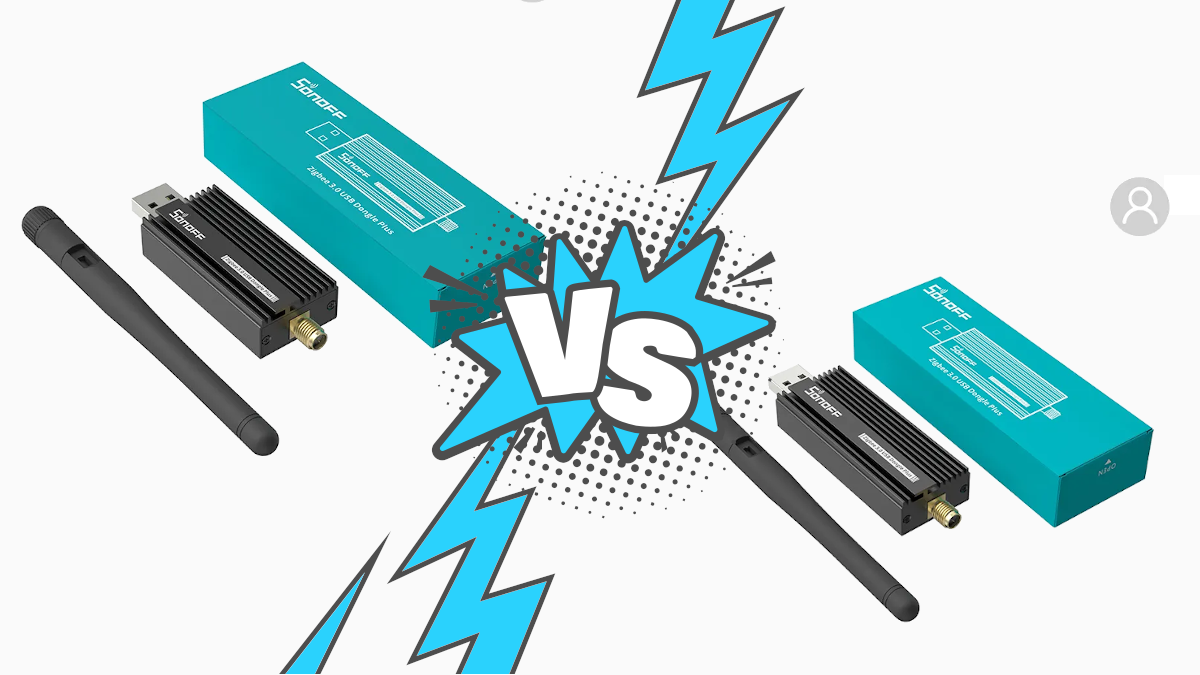
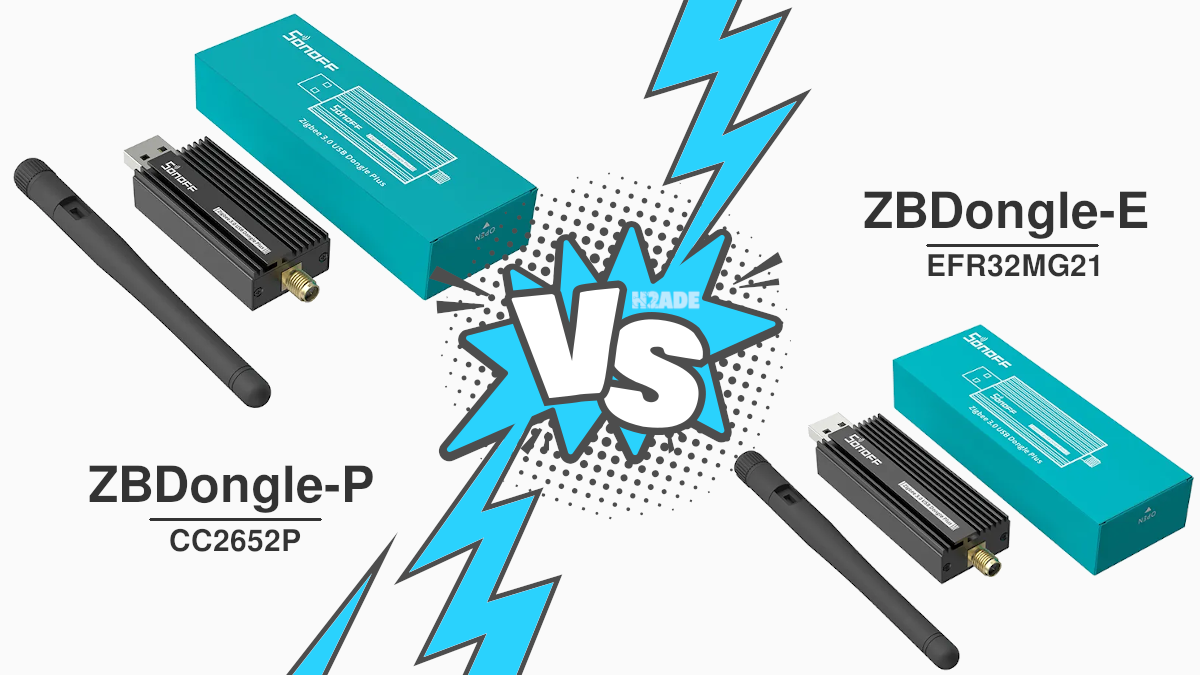
update posts sonoff

Changed region(s): [[0.0, 0.0, 1.0, 1.0]]

diff --git a/_includes/pdflink.html b/_includes/pdflink.html
@@ -1,0 +1,7 @@
+{% for pdf in site.static_files %}
+  {% if pdf.path contains 'assets/images/posts/{{ page.guid }}' %}
+  <div class="pdfinteger">
+  Téléchargez le fichier PDF ici : <a href="{{ pdf.path }}">{{ pdf.title }}</a><i class="far fa-file-pdf"></i>
+</div>  
+  {% endif %}
+{% endfor %}

diff --git a/_includes/youtubePlayer.html b/_includes/youtubePlayer.html
@@ -1,4 +1,4 @@
-<!-- https://github.com/nathancy/jekyll-embed-video/blob/master/_includes/youtubePlayer.html -->
+<!-- https://github.com/nathancy/jekyll-embed-video/tree/master/_includes -->
 
 <div class="embed-container lazyimg">
     <iframe

diff --git a/_sass/plugins.scss b/_sass/plugins.scss
@@ -312,8 +312,8 @@ margin-top:10px;}
 
       h2 {
         font-size: 22px;
-
-      }
+        text-transform: uppercase;
+}
 
       h2 h3 {
         margin-bottom: 0.3rem;

diff --git a/_posts/fr/2022-11-20-zb-dongle-p-vs-zb-dongle-e-zigbee-sonoff.md b/_posts/fr/2022-11-20-zb-dongle-p-vs-zb-dongle-e-zigbee-sonoff.md
@@ -24,21 +24,97 @@ rating:
 sourcelink:
   - https://www.reddit.com/r/homeassistant/comments/x9kkh1/zigbee_matter_hub_cc2652p_vs_efr32mg21_vs_cc2531/
   - https://sonoff.tech/
+  - https://www.silabs.com/wireless/zigbee/efr32mg21-series-2-socs
+  - https://www.ti.com/product/CC2652P#features
 ---
 
-## Intro
+## INTRODUCTION
 
  aujourd'hui nous allons  comparer deux clés  ZigBee de la marque sonoff la ZBDongle-P et la ZBDongle-E. La ZBDongle-P dispose d'un processeur CC2652P, qui a été longuement éprouvé et fonctionne sur l'ensemble des plateformes domotique. quand a la clé ZBDongle-E dispose d'un processeur EFR32MG21, celle-ci est beaucoup plus récente mais semble être l'avenir des processeurs des clés Zigbee 3.0, vu sa récente introduction il faudra faire attention à ce qu'elle soit bien compatible avec les plateformes domotiques actuelles. Par exemple avec le service zigbee2mqtt celle-ci est à utiliser avec précaution car encore expérimental, voir le lien dans le tableau ci-dessous. **La principale différence réside dans la puissance du signal la clé ZBDongle-P a un signal initiales de 5 dbm et peut aller jusqu'à 20 Dbm max, alors que la ZBDongle-E a un signal avoisinant les 20 décibels maximum.** La Seconde différence se trouve au niveau des dimensions la ZBDongle-P mesure 66mm tandis que la ZBDongle-E mesure 11 mm de moins. Les mises à jours du firmware fonctionnent de façon identique sur les deux clés.
+
+## Présentation CC2652P clé ZBDongle-P
+
+{% include product-embed.html image="https://ae01.alicdn.com/kf/S90bbc8d67fea433b9049a0df5f455f48c/1-10PCS-SONOFF-ZB-Dongle-Plus-USB-Zigbee3-0-Passerelle-Analyseur-Zigbee-2MQTT-Interface-Capture-Avec.jpg_Q90.jpg_.webp" title="Sonoff zbdongle-p cc2652p" brand="Sonoff" description="Le dongle USB SONOFF Zigbee 3.0 est une clé USB Zigbee universelle." affiliate="_DEQcEe7" %}
+
+L'appareil SimpleLink™CC2652P est un microcontrôleur sans fil (MCU) multiprotocole de 2,4 GHz prenant en charge **Thread , Zigbee , Bluetooth 5.2 Low Energy** , IEEE 802.15.4, les objets intelligents compatibles IPv6 (6LoWPAN), les systèmes propriétaires, y compris le TI 15.4-Stack (2.4 GHz) et multiprotocole simultané via un pilote Dynamic Multiprotocol Manager (DMM). L'appareil est optimisé pour la communication sans fil à faible puissance et la détection avancée dans les systèmes de sécurité des bâtiments, CVC, médical, réseau câblé, électronique portable, home cinéma et divertissement, et marchés des périphériques connectés. 
+
+### Spécification CC2652P
+
+#### Microcontrôleur
+- Puissant processeur Arm Cortex-M4F de 48 MHz
+- Note EEMBC CoreMark : 148
+- 352 Ko de flash programmable intégré au système
+- 256 Ko de ROM pour les protocoles et les fonctions de bibliothèque
+- 8 Ko de mémoire cache SRAM (également disponible en tant que RAM à usage général)
+- 80 Ko de SRAM à très faible fuite. La SRAM est protégée par parité pour assurer une grande fiabilité de fonctionnement.
+- Débogage cJTAG et JTAG à 2 broches
+- Prend en charge la mise à jour en direct (OTA).
+- 
+#### Contrôleur de capteur ultra-basse consommation avec 4 Ko de SRAM
+- Échantillonner, stocker et traiter les données des capteurs
+- Fonctionnement indépendant du CPU du système
+- Réveil rapide pour un fonctionnement à faible consommation
+- TI-RTOS, pilotes, bootloader, contrôleur basse consommation Bluetooth 5.2 et IEEE 802.15.4 MAC en ROM pour une taille d'application optimisée
+- 
+#### Taille Soc
+7 mm × 7 mm RGZ VQFN48 (26 GPIO)
+
+## Présentation EFR32MG21 Clé ZBDongle-E
+
+{% include product-embed.html guid="2128" %}
+
+Les appareils EFR32MG21 apportent des solutions hautes performances, basse consommation et sécurisées à l'IoT. Conçus pour augmenter la capacité de traitement, améliorer les performances RF et réduire le courant actif, les dispositifs EFR32MG21 sont des SoC sans fil 2,4 GHz optimisés pour les applications de maillage **Zigbee, Thread et Bluetooth** alimentées par la ligne, y compris l'éclairage connecté, les passerelles, les assistants vocaux et les compteurs intelligents.
+
+La famille de SoC EFR32MG21 comprend un sous-système de sécurité intégré et des dispositifs qui peuvent tirer parti des technologies Secure Vault. Secure Vault fournit des fonctionnalités logicielles de sécurité de pointe avec une technologie matérielle à fonction physique non clonable (PUF) pour réduire considérablement le risque de failles de sécurité IoT et de compromission de la propriété intellectuelle
+
+Avec une sensibilité supérieure à -104 dBm pour 802.15.4 et Bluetooth longue portée et une puissance de sortie jusqu'à +20 dBm, l'EFR32MG21 fournit une liaison RF robuste pour assurer des communications fiables. EFR32MG21 utilise les outils de développement Simplicity Studio 5, offrant une migration facile et une mise sur le marché rapide avec des kits de développement, des SDK, des applications mobiles et notre analyseur de réseau breveté.
+
+### Spécification EFR32MG21
+
+#### Radio Zigbee et Thread
+- 2,4 GHz IEEE 802.15.4
+- 250 kbps O-QPSK DSSS
+- Excellente sensibilité de réception :
+  - 104,5 dBm à 250 kbps O-QPSK DSSS
+- Puissance de sortie programmable : +20 dBm
+- Réception en mode actif : 9,4 mA
+- Émission en mode actif : 9,3 mA à 0 dBm
+- Émission en mode actif : 33,8 mA à 10 dBm
+- 
+#### Radio basse consommation Bluetooth®
+- Compatible avec les spécifications Bluetooth 5, Bluetooth 5.1 et Bluetooth Mesh
+- Excellente sensibilité de réception :
+  - 104,9 dBm à 125 kbps GFSK
+  - 97,5 dBm à 1 Mbit/s GFSK
+  - 94,4 dBm à 2 Mbit/s GFSK
+- Puissance de sortie programmable : jusqu'à +20 dBm
+- Réception en mode actif : 8,8 mA
+- Émission en mode actif : 9,3 mA à 0 dBm
+- Émission en mode actif : 33,8 mA à 10 dBm
+
+#### Options de MCU et de mémoire puissantes
+- ARM® Cortex®-M33
+  - DSP et unité à virgule flottante
+- Vitesse d'horloge jusqu'à 80 MHz
+- Courant de mode actif faible : 50,9 μA/MHz
+- Jusqu'à 1024 ko de flash programmable
+- Jusqu'à 96 Ko de RAM
+- 
+#### Taille Soc
+- QFN32 (4 mm x 4 mm)
+
+
 
 ## Comparatif ZBDongle-P VS ZBDongle-E
 
 ||ZBDongle-P|ZBDongle-E|
 ||:--------:|:--------:|
 |**Soc**|CC2652P|EFR32MG21|
-|**Processeur**|Cortex-M4|Cortex-M33|
+|**Processeur**|Cortex-M4F|Cortex-M33|
 |**Memoire Flash**|352Kb|**1000kb**{: .blue }|
 |**Ram**|80kb|**96kb**{: .blue }|
 |**Interface Protocole**|Z-Stack(ZNP)|EmberZNet(EZSP)|
+|**Compatible**|Zigbee, OpenThread, Bluetooth|Zigbee, OpenThread, Bluetooth|
 |**Usb serie Soc**|CP2102(N)|CH9102F|
 |**ID**|Dongle Plus|Dongle Plus V2|
 |**Contrôle de flux**|Hardware|Software|
@@ -66,6 +142,7 @@ Le CPU de l'EFR est un ARM Cortex-M33 qui fonctionne à 80Mhz avec 1Mb de flash 
 ## Compatibilité avec Matter
 
 Notez que Zigbee n'est pas directement compatible avec Matter. Au lieu de cela, Matter utilise une norme radio "de type Zigbee" appelée Thread, qui ajoute un adressage IP au maillage. Je suis à peu près sûr que le dongle cc2652 peut être configuré en tant que coordinateur Zigbee ou en tant que routeur de bordure de thread, selon le micrologiciel/logiciel que vous installez, mais je doute qu'il puisse faire les deux en même temps (mais peut-être que quelqu'un a essayé et peut partager ?), vous en aurez donc probablement besoin de deux : un pour vos appareils Zigbee et un pour vos appareils Thread.
+Silicon Labs a sorti un nouveau Soc [EFR32MG24](https://www.silabs.com/wireless/zigbee/efr32mg24-series-2-socs){:target="_blank"} celui-ci est compatible **Zigbee, Matter et Openthread**{: .red}, il y a aussi des nouveautées du côté de Texas instrument qui a sorti une puce [CC2652P7](https://www.ti.com/product/CC2652P7){:target="_blank"} elle aussi compatible avec **Zigbee, Matter et Openthread**{: .red}
 
 ## firmware flashing
 
@@ -74,8 +151,15 @@ Le dongle USB Plus Zigbee 3.0 est livré pré-flashé avec le micrologiciel du c
 Flashage du micrologiciel ZBDongle-P (CC2652P) et ZBDongle-E (EFR32MG21)
 Activer le contrôle de flux matériel et générer le micrologiciel correspondant
 
+{% include pdflink.html %}
+
 
 ## Tutoriel de configuration de la puissance de transmission ZBDongle-P
+
+## CONCLUSION
+
+le ZBDongle-P équipé de la puce TI CC2652-P est au point et fonctionne avec tous les softs du moment cependant il semble tomber aux oubliettes, il n'y a qu'à voir le nombre de produits en vente sur Aliexpress il n'y en a que pour la version E, en effet celle-ci semble être la nouvelle norme Zigbee en effet le processeur est plus petit et les performance sont au dessus à tous les niveaux, du fait de sa jeunesse elle est encore en phase de test mais celà semble toucher à sa fin. 
+> ***Si tu as une puce CC2652P je ne pense pas qu'il faille se dépêcher d'en changer surtout si ton maillage est solide. Je pense que les constructeurs vont bientôt sortir des clés à base de S-labs EFR32MG24 qui elle est compatible en plus du reste avec Matter.***
 
 
 
